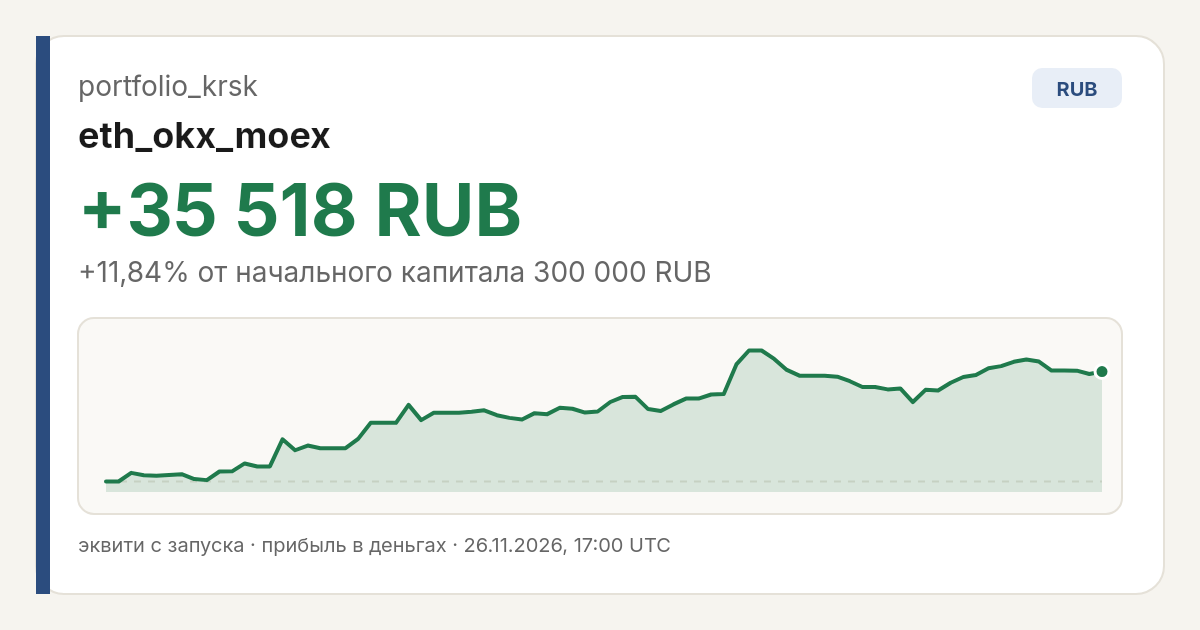
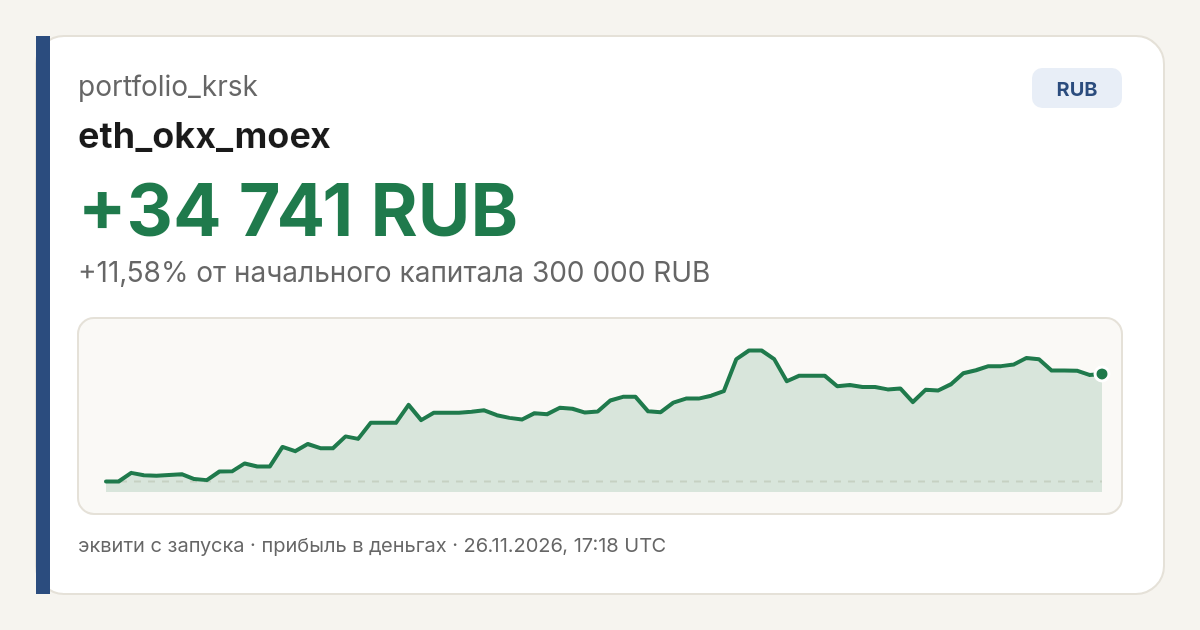
sync equity data 2026-11-26T17:18:01Z

diff --git a/share.html b/share.html
@@ -4,23 +4,23 @@
     <meta charset="UTF-8" />
     <meta name="viewport" content="width=device-width, initial-scale=1.0" />
     <title>portfolio_krsk - eth_okx_moex</title>
-    <meta name="description" content="eth_okx_moex: +35 518 RUB (+11,84%) с запуска. Лидер обложки выбран по доходности в процентах от начального капитала; суммы в разных валютах не сравниваются." />
+    <meta name="description" content="eth_okx_moex: +34 741 RUB (+11,58%) с запуска. Лидер обложки выбран по доходности в процентах от начального капитала; суммы в разных валютах не сравниваются." />
     <meta property="og:title" content="portfolio_krsk - eth_okx_moex" />
-    <meta property="og:description" content="eth_okx_moex: +35 518 RUB (+11,84%) с запуска. Лидер обложки выбран по доходности в процентах от начального капитала; суммы в разных валютах не сравниваются." />
+    <meta property="og:description" content="eth_okx_moex: +34 741 RUB (+11,58%) с запуска. Лидер обложки выбран по доходности в процентах от начального капитала; суммы в разных валютах не сравниваются." />
     <meta property="og:url" content="https://portfolio-krsk.vercel.app/" />
     <meta property="og:site_name" content="portfolio_krsk" />
     <meta property="og:locale" content="ru_RU" />
     <meta property="og:type" content="website" />
-    <meta property="og:image" content="https://varshavskiy1-beep.github.io/portfolio-krsk/og-cover.jpg?v=202611261700" />
-    <meta property="og:image:secure_url" content="https://varshavskiy1-beep.github.io/portfolio-krsk/og-cover.jpg?v=202611261700" />
+    <meta property="og:image" content="https://varshavskiy1-beep.github.io/portfolio-krsk/og-cover.jpg?v=202611261718" />
+    <meta property="og:image:secure_url" content="https://varshavskiy1-beep.github.io/portfolio-krsk/og-cover.jpg?v=202611261718" />
     <meta property="og:image:type" content="image/jpeg" />
     <meta property="og:image:width" content="1200" />
     <meta property="og:image:height" content="630" />
-    <link rel="image_src" href="https://varshavskiy1-beep.github.io/portfolio-krsk/og-cover.jpg?v=202611261700" />
+    <link rel="image_src" href="https://varshavskiy1-beep.github.io/portfolio-krsk/og-cover.jpg?v=202611261718" />
     <meta name="twitter:card" content="summary_large_image" />
     <meta name="twitter:title" content="portfolio_krsk - eth_okx_moex" />
-    <meta name="twitter:description" content="eth_okx_moex: +35 518 RUB (+11,84%) с запуска. Лидер обложки выбран по доходности в процентах от начального капитала; суммы в разных валютах не сравниваются." />
-    <meta name="twitter:image" content="https://varshavskiy1-beep.github.io/portfolio-krsk/og-cover.jpg?v=202611261700" />
+    <meta name="twitter:description" content="eth_okx_moex: +34 741 RUB (+11,58%) с запуска. Лидер обложки выбран по доходности в процентах от начального капитала; суммы в разных валютах не сравниваются." />
+    <meta name="twitter:image" content="https://varshavskiy1-beep.github.io/portfolio-krsk/og-cover.jpg?v=202611261718" />
     <meta http-equiv="refresh" content="0; url=/" />
     <script>location.replace("/")</script>
     <style>
@@ -49,9 +49,9 @@
   </head>
   <body>
     <main>
-      <img src="https://varshavskiy1-beep.github.io/portfolio-krsk/og-cover.jpg?v=202611261700" alt="portfolio_krsk - eth_okx_moex" width="1200" height="630" />
+      <img src="https://varshavskiy1-beep.github.io/portfolio-krsk/og-cover.jpg?v=202611261718" alt="portfolio_krsk - eth_okx_moex" width="1200" height="630" />
       <noscript>
-        <p>eth_okx_moex: +35 518 RUB (+11,84%) с запуска. Лидер обложки выбран по доходности в процентах от начального капитала; суммы в разных валютах не сравниваются.</p>
+        <p>eth_okx_moex: +34 741 RUB (+11,58%) с запуска. Лидер обложки выбран по доходности в процентах от начального капитала; суммы в разных валютах не сравниваются.</p>
         <p><a href="/">Открыть кабинет portfolio_krsk</a></p>
       </noscript>
     </main>
